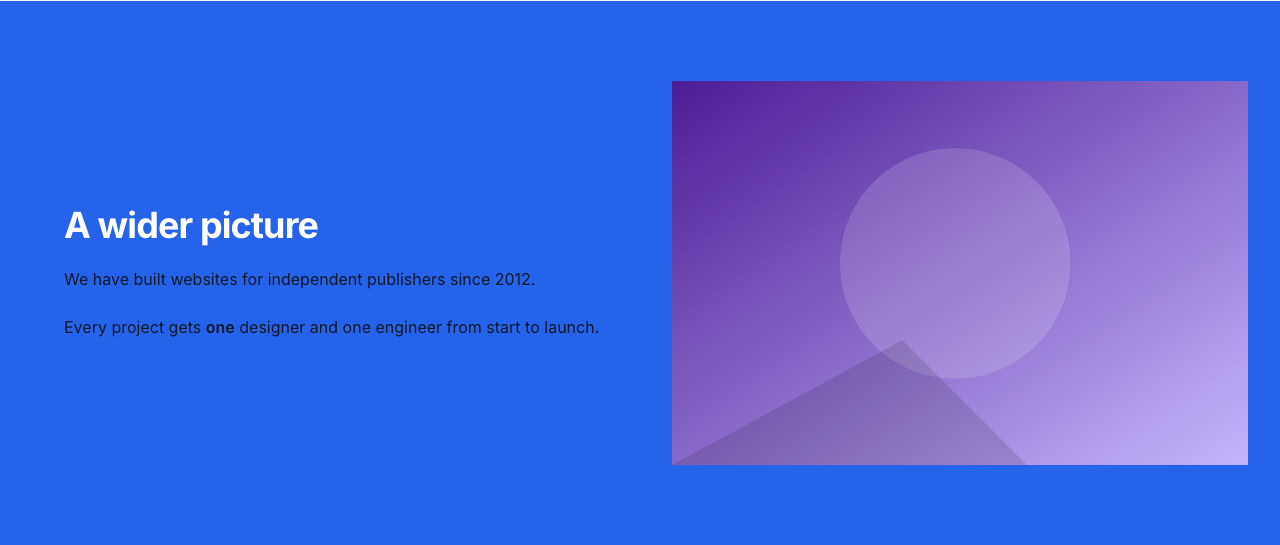
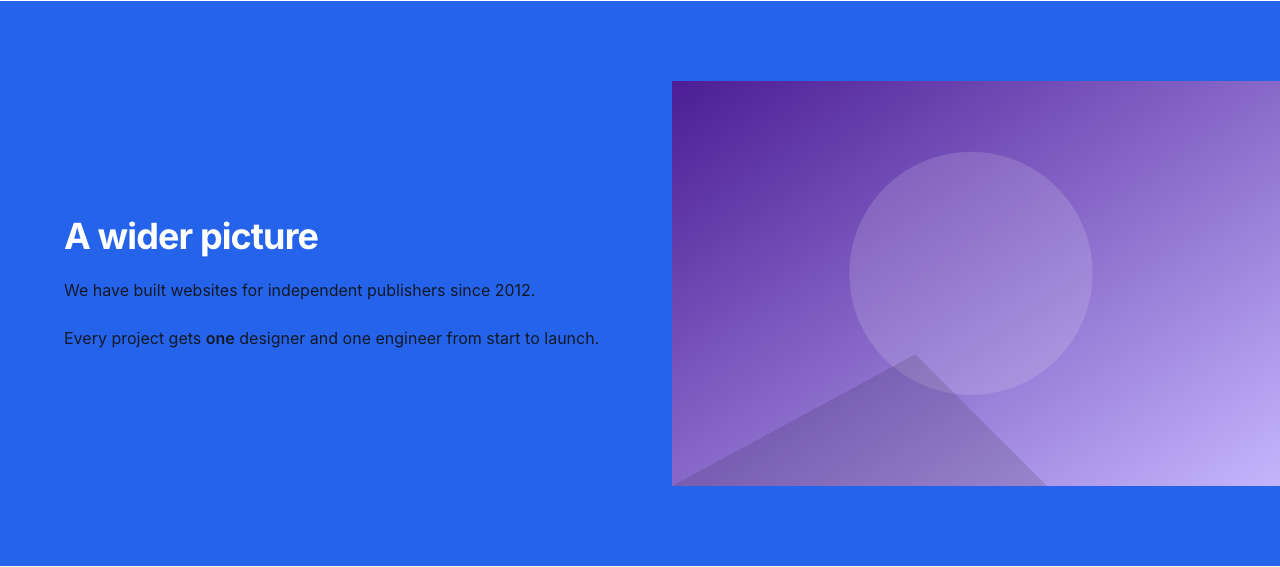
feat(astro-kit): modern variants 2 — Hero stackOrder + imageBleed, Split arch/chamfer/blob (#579)

diff --git a/packages/astro-kit/tests/hero-stack-bleed-shape.test.ts b/packages/astro-kit/tests/hero-stack-bleed-shape.test.ts
@@ -1,0 +1,50 @@
+import { readFile } from 'node:fs/promises'
+import { join } from 'node:path'
+import { describe, expect, it } from 'vitest'
+
+const COMPONENTS = join(import.meta.dirname, '..', 'components')
+const read = (...path: string[]) => readFile(join(COMPONENTS, ...path), 'utf8')
+
+describe('the hero\'s image first, to the window\'s edge, and Split\'s masks', () => {
+  it('leaves a hero and a split as they were unless the new options are asked for', async () => {
+    const hero = await read('hero', 'Hero.astro')
+    expect(hero).toContain("headingLines: 'flow', stackOrder: 'text-first', imageBleed: 'none' }")
+    expect(hero).toContain("stackOrder: { 'text-first': {}, 'media-first': { media: 'order-first' } }")
+    expect(hero).toContain("const bleeds = !cover && image && imageBleed !== undefined && imageBleed !== 'none'")
+    expect(hero).toContain("class={bleeds ? 'overflow-x-clip' : undefined}")
+    const split = await read('split', 'Split.astro')
+    expect(split).toContain("defaultVariants: { imageSide: 'end', ratio: '1:1', imageFit: 'contain', imageShape: 'rounded'")
+  })
+
+  it('takes the window\'s edge from one shared rule, Split\'s, so the two never drift apart', async () => {
+    const bleed = await read('_shared', 'bleed.ts')
+    // The page frame caps its width with its gutter inside (`container-page`), so the edge is what the frame leaves of the
+    // window, halved, plus that gutter: without it the image stopped 32px short above 1216px.
+    const edge = 'calc((100vw-min(var(--container-page)+2*var(--container-inset,0px),100vw))/2+var(--spacing-gutter,2rem))'
+    expect(bleed).toContain(`end: 'md:-me-[${edge}]'`)
+    expect(bleed).toContain(`start: 'md:-ms-[${edge}]'`)
+    for (const component of [['hero', 'Hero.astro'], ['split', 'Split.astro']]) {
+      const source = await read(...component)
+      expect(source).toContain("import { BLEED } from '../_shared/bleed'")
+      expect(source).not.toContain('const BLEED')
+    }
+    for (const meta of ['hero', 'split']) expect(JSON.parse(await read(meta, 'meta.json')).shared).toContain('bleed.ts')
+    // A centered hero's image is full width of its column: it lets go of that width, or the margins only shift it.
+    expect(await read('hero', 'Hero.astro')).toContain('`max-w-none md:w-auto ${BLEED.start} ${BLEED.end}`')
+  })
+
+  it('lets only an image that comes last cross the bottom: overlap with media-first draws as edge, never over the text', async () => {
+    const hero = await read('hero', 'Hero.astro')
+    expect(hero).toContain("const bleedAs = imageBleed === 'overlap' && stackOrder === 'media-first' ? 'edge' : imageBleed")
+    expect(hero).toContain('imageBleed: bleedAs })')
+  })
+
+  it('draws a mask from a fixed set of classes, never a value from content, and dims no text', async () => {
+    const split = await read('split', 'Split.astro')
+    expect(split).toContain("arch: { media: 'rounded-t-full', image: 'h-full' },")
+    expect(split).toContain("chamfer: { media: '[clip-path:polygon(0_0,82%_0,100%_18%,100%_100%,0_100%)]' },")
+    expect(split).toContain("blob: { media: 'rounded-[38%_62%_55%_45%/48%_42%_58%_52%]' },")
+    expect(JSON.parse(await read('split', 'meta.json')).variants.imageShape.options).toEqual(['none', 'rounded', 'circle', 'arch', 'chamfer', 'blob'])
+    for (const component of [['hero', 'Hero.astro'], ['split', 'Split.astro']]) expect(await read(...component)).not.toMatch(/opacity/)
+  })
+})

diff --git a/packages/astro-kit/components/_shared/bleed.ts b/packages/astro-kit/components/_shared/bleed.ts
@@ -1,0 +1,8 @@
+// The viewport's edge, from the content's edge: what the page frame leaves of the window, halved, plus the frame's own
+// gutter (`container-page` caps its width with the gutter inside it). A section whose image runs on to the window's
+// edge (Split, Hero `imageBleed`) pulls it out by this much on its side, on wide screens. Literal class names, so the
+// stylesheet builder sees them.
+export const BLEED = {
+  end: 'md:-me-[calc((100vw-min(var(--container-page)+2*var(--container-inset,0px),100vw))/2+var(--spacing-gutter,2rem))]',
+  start: 'md:-ms-[calc((100vw-min(var(--container-page)+2*var(--container-inset,0px),100vw))/2+var(--spacing-gutter,2rem))]',
+} as const

diff --git a/packages/astro-kit/tests/lines.test.ts b/packages/astro-kit/tests/lines.test.ts
@@ -10,7 +10,7 @@ describe('a heading the author broke into lines (Hero headingLines)', () => {
     const headings = [...hero.matchAll(/<Heading [^>]*>([\s\S]*?)<\/Heading>/g)].map(match => match[1])
     expect(headings).toHaveLength(3)
     for (const inner of headings) expect(inner).toBe("{headingLines === 'lines' ? <Lines text={heading} /> : heading}")
-    expect(hero).toContain("headingLines: 'flow' }")
+    expect(hero).toMatch(/headingLines: 'flow'[,\s}]/)
   })
 
   it('one block per line, numbered for a theme, with a space between them so the heading reads as one sentence', async () => {

diff --git a/.changeset/kit-hero-bleed.md b/.changeset/kit-hero-bleed.md
@@ -1,0 +1,5 @@
+---
+'@contentrain/astro-kit': minor
+---
+
+Hero gains `imageBleed`. `edge` runs the image on to the window's edge on its side (both sides when the hero is centered), by Split's rule, now shared as `_shared/bleed.ts`. `overlap` also lets it cross the section's bottom edge by `--hero-overlap` (3rem), drawn over the next section's top padding without moving that section. A cover ignores it. The default, `none`, draws the hero exactly as before.

diff --git a/.changeset/kit-split-bleed-edge.md b/.changeset/kit-split-bleed-edge.md
@@ -1,0 +1,5 @@
+---
+'@contentrain/astro-kit': minor
+---
+
+Split's edge bleed (`imageBleed: 'edge'`) now reaches the window's edge on screens wider than 1216 px. It used to stop 32 px short there: the rule assumed the page frame's gutter sat outside its 76rem width, but it sits inside. The rule now lives in `_shared/bleed.ts`, shared with Hero's `imageBleed`.

diff --git a/.changeset/kit-hero-media-first.md b/.changeset/kit-hero-media-first.md
@@ -1,0 +1,5 @@
+---
+'@contentrain/astro-kit': minor
+---
+
+Hero gains `stackOrder` (Split's name and values). With `media-first` the image comes before the text: on phones and on the start side in a split hero, above the heading in a centered one. A cover ignores it. The default, `text-first`, draws the hero exactly as before.

diff --git a/.changeset/kit-split-shape.md b/.changeset/kit-split-shape.md
@@ -1,0 +1,5 @@
+---
+'@contentrain/astro-kit': minor
+---
+
+Split's `imageShape` gains `arch` (a rounded top), `chamfer` (a cut corner) and `blob` (a soft outline), each a fixed class, never a value from content. The existing shapes and the default, `rounded`, are unchanged.
